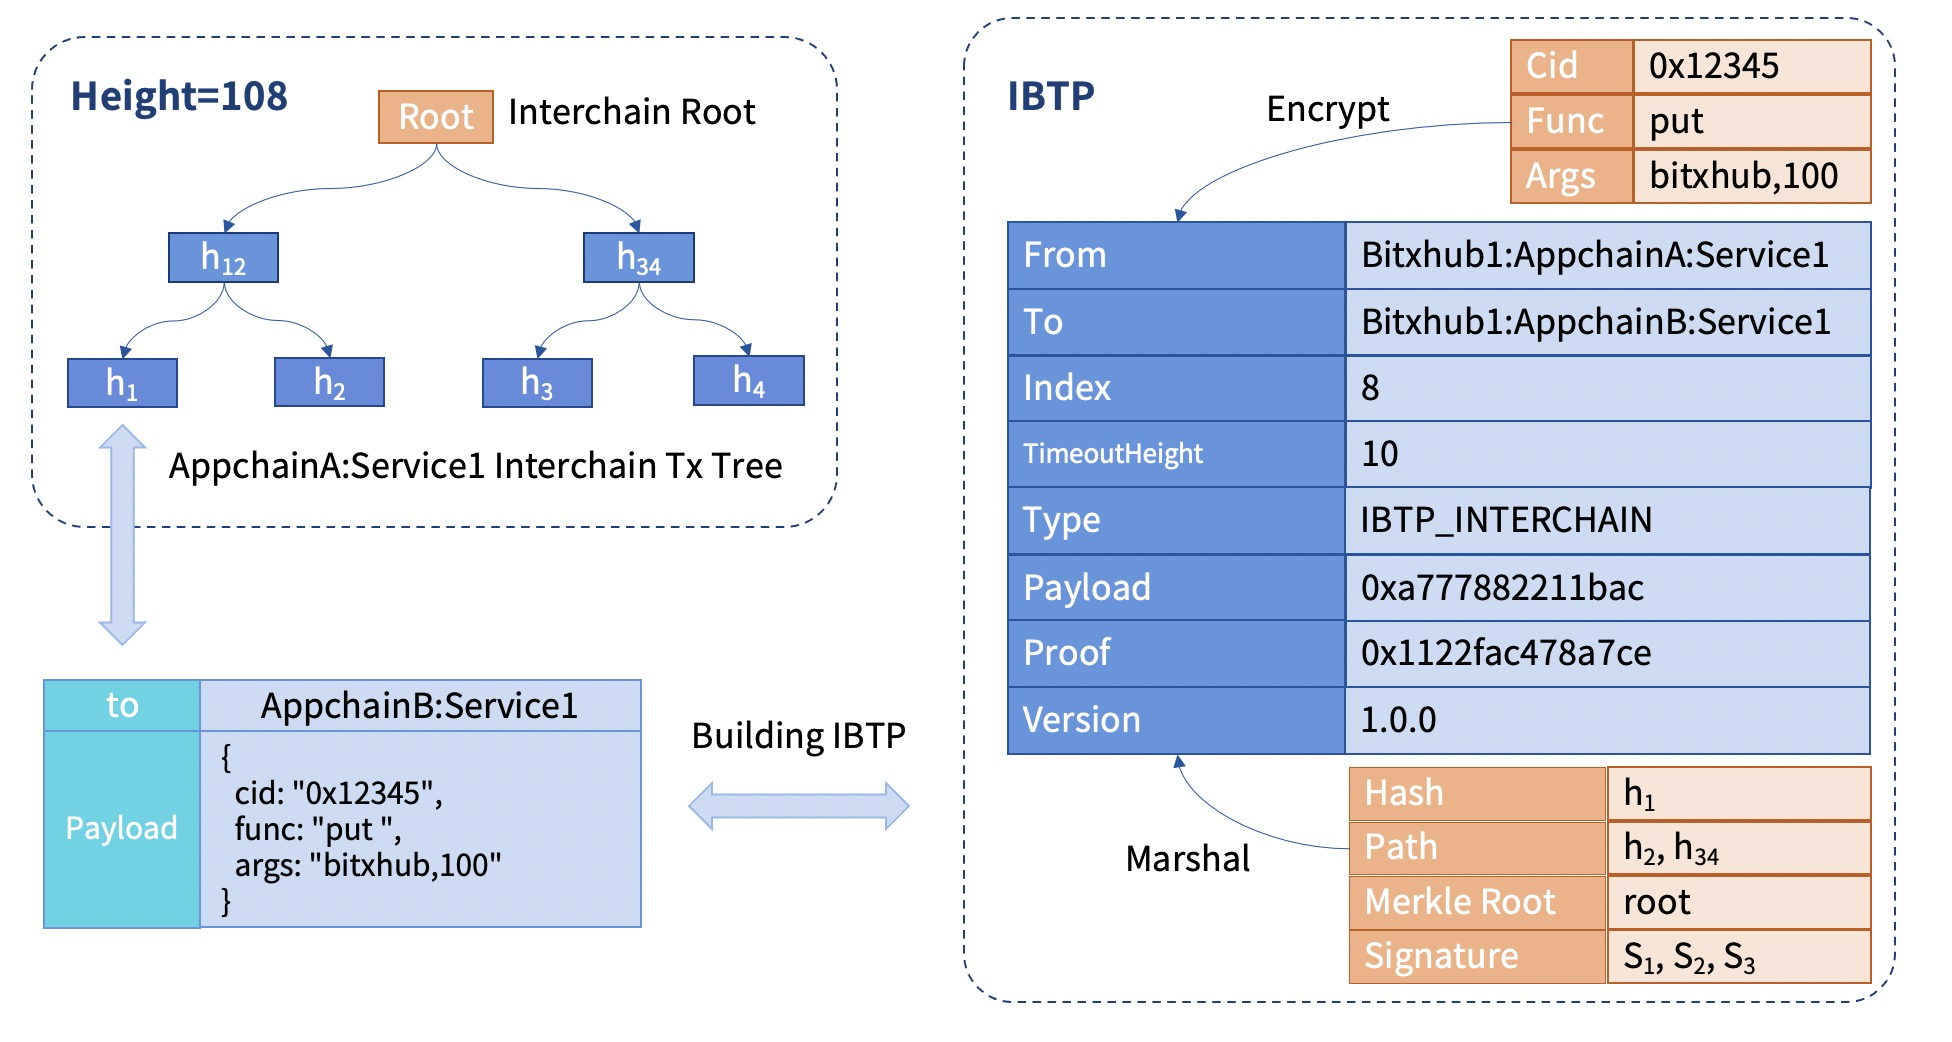
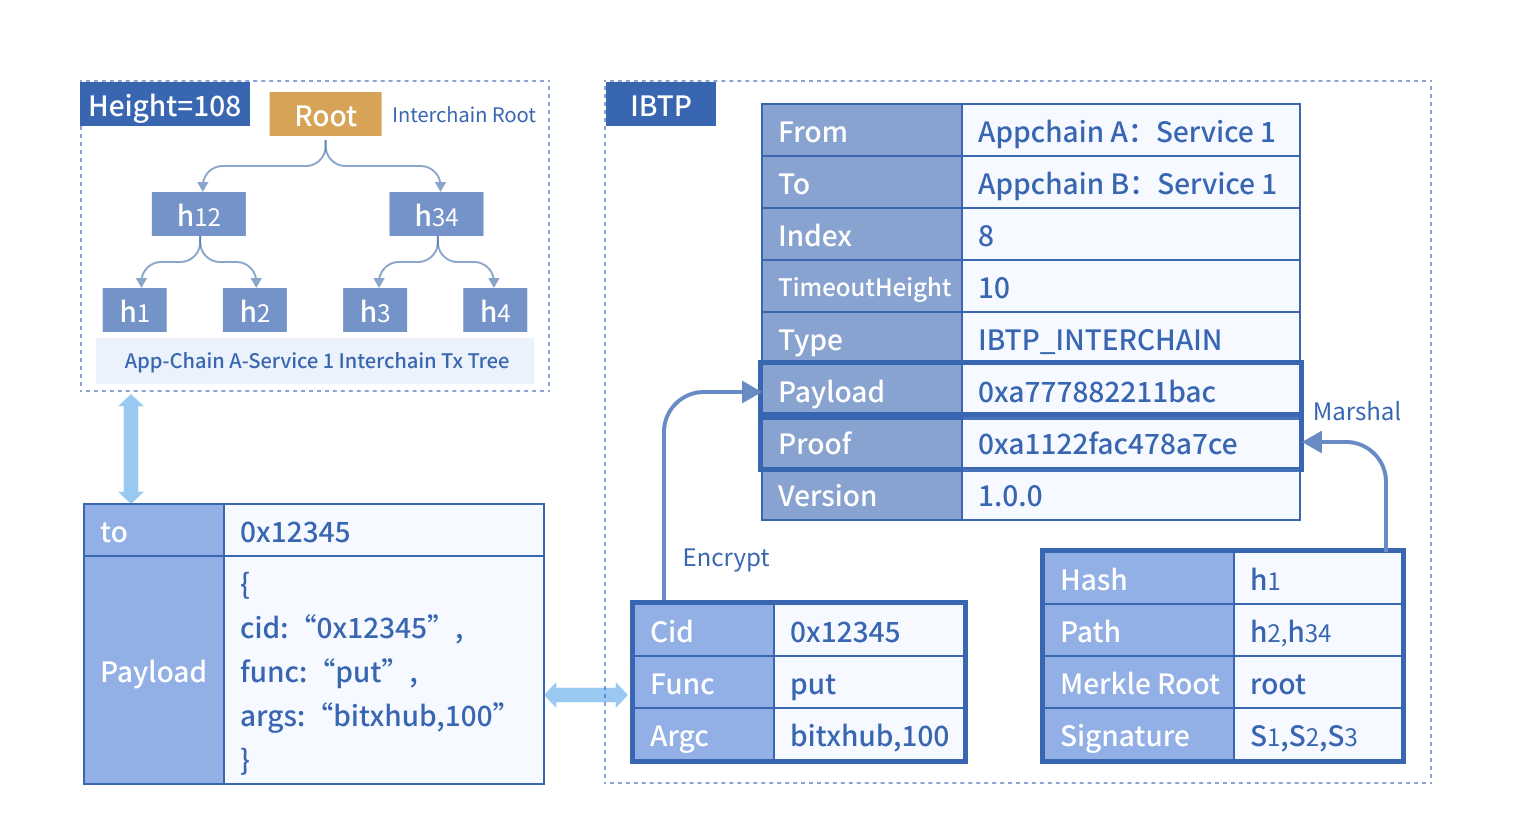
update 2.0 picture update proposal manager design

diff --git a/docs/bitxhub/quick_start/tx_flow.md b/docs/bitxhub/quick_start/tx_flow.md
@@ -1,4 +1,4 @@
-# 跨链交易流程介绍
+# 跨链交易基本流程
 
 一个典型的跨链交易流程如下图所示，图中各模块具体含义如下：
 
@@ -34,6 +34,8 @@
 
 #### 4. 中继链处理跨链交易
 
+
+
 BitXHub 收到跨链交易后，将进行以下处理：
 
 1. 对 bxhTx1 进行基本验证，如验证交易的Nonce与签名的合法性；
@@ -44,27 +46,26 @@ BitXHub 收到跨链交易后，将进行以下处理：
 
 4. 执行模块交由验证引擎验证区块的所有交易的有效性和存在性，并对交易根据发送的目的地址进行分类，处理完毕后交由路由模块；
 
-5. 路由模块根据地址将封装后的跨链交易bxhTxWrapper路由到对应的跨链网关，TxWrapper交易类型如下图所示。
+5. 路由模块根据地址将封装后的跨链交易bxhTxWrapper路由到对应的跨链网关，TxWrapper交易类型与路由逻辑如下所示。
 
-   | 参数         | 说明                                              |
-   | ------------ | ------------------------------------------------- |
-   | L2Roots      | 不同的目的应用链的交易构成的merkleRoot集合        |
-   | Transactions | 验证后交易集合，valid字段表明交易是否验证通过     |
-   | Height       | 交易所在的区块高度，与L2Roots一起用于跨链网关验证 |
+    ![!](../../assets/router.png)
+
+    | 参数         | 说明                                          |
+    | ------------ | --------------------------------------------- |
+    | Transactions | 验证后交易集合，valid字段表明交易是否验证通过 |
+    | Height       | 交易所在的区块高度                            |
+
+
 
 #### 5. 跨链网关监听中继链交易
 
-验证跨链交易所在区块在中继链的存在性：
+跨链网关 B 收到中继链发送的跨链交易，需要向中继链请求跨链交易所需的proof。proof由多签和交易状态组成。proof构造逻辑如下：
 
-- 跨链网关 B 监听到来自中继链的交易bxhTxWrapper，跨链网关可以根据bxhTxWrapper的L2Roots字段构建当前区块的txRoot1；
+1. 跨链网关向中继链请求该跨链交易的proof，中继链收到请求后，根据跨链交易ID从账本查询到该跨链交易；
+2. 中继链根据跨链交易ID从状态数据库中读取该跨链交易状态；
+3. 中继链各节点将交易状态与跨链交易相关字段进行打包签名，各节点签名的拼接称为多签，中继链将多签返回至跨链网关 B ；
 
-- 与此同时，跨链网关将拉取中继链的区块头，根据bxhTxWrapper的区块高度获取相应的区块头txRoot2；
-- 比较当前区块头的txRoot2与计算得到的txRoot1是否相等。如果相等，即验证了收到的bxhTxWrapper的L2Roots字段的真实性。
-
-验证跨链交易在区块的有效性：
-
-- 将bxhTxWrapper的交易集合构建交易哈希L2Root，判断L2Root是否存在于L2roots集合中。
-- 如果存在，即验证了收到的bxhTxWrapper的Transactions字段的真实性。证明了交易存在中继链的真实性。
+至此 proof构造完成，因为proof的构造是有中继链各节点管理员使用私钥对其IBTP各字段与交易状态进行签名，跨链网关作为不受信任的组件只进行封装与转发的操作，如果跨链网关作恶，对其内容进行更改，在应用链合约在使用中继链管理员的公钥进行proof校验时将失败，因此整个跨链交易流程最终失败，应用链 A 将进行相关回滚操作。
 
 #### 6. 解析中继链交易并转发给应用链执行
 

diff --git a/docs/bitxhub/architecture/tx_flow.md b/docs/bitxhub/architecture/tx_flow.md
@@ -46,25 +46,20 @@ BitXHub 收到跨链交易后，将进行以下处理：
 
 5. 路由模块根据地址将封装后的跨链交易bxhTxWrapper路由到对应的跨链网关，TxWrapper交易类型如下图所示。
 
-   | 参数         | 说明                                              |
-   | ------------ | ------------------------------------------------- |
-   | L2Roots      | 不同的目的应用链的交易构成的merkleRoot集合        |
-   | Transactions | 验证后交易集合，valid字段表明交易是否验证通过     |
-   | Height       | 交易所在的区块高度，与L2Roots一起用于跨链网关验证 |
+   | 参数         | 说明                                          |
+   | ------------ | --------------------------------------------- |
+   | Transactions | 验证后交易集合，valid字段表明交易是否验证通过 |
+   | Height       | 交易所在的区块高度                            |
 
 #### 5. 跨链网关监听中继链交易
 
-验证跨链交易所在区块在中继链的存在性：
+跨链网关 B 收到中继链发送的跨链交易，需要向中继链请求跨链交易所需的proof。proof由多签和交易状态组成。proof构造逻辑如下：
 
-- 跨链网关 B 监听到来自中继链的交易bxhTxWrapper，跨链网关可以根据bxhTxWrapper的L2Roots字段构建当前区块的txRoot1；
+1. 跨链网关向中继链请求该跨链交易的proof，中继链收到请求后，根据跨链交易ID从账本查询到该跨链交易；
+2. 中继链根据跨链交易ID从状态数据库中读取该跨链交易状态；
+3. 中继链各节点将交易状态与跨链交易相关字段进行打包签名，各节点签名的拼接称为多签，中继链将多签返回至跨链网关 B ；
 
-- 与此同时，跨链网关将拉取中继链的区块头，根据bxhTxWrapper的区块高度获取相应的区块头txRoot2；
-- 比较当前区块头的txRoot2与计算得到的txRoot1是否相等。如果相等，即验证了收到的bxhTxWrapper的L2Roots字段的真实性。
-
-验证跨链交易在区块的有效性：
-
-- 将bxhTxWrapper的交易集合构建交易哈希L2Root，判断L2Root是否存在于L2roots集合中。
-- 如果存在，即验证了收到的bxhTxWrapper的Transactions字段的真实性。证明了交易存在中继链的真实性。
+至此 proof构造完成，因为proof的构造是有中继链各节点管理员使用私钥对其IBTP各字段与交易状态进行签名，跨链网关作为不受信任的组件只进行封装与转发的操作，如果跨链网关作恶，对其内容进行更改，在应用链合约在使用中继链管理员的公钥进行proof校验时将失败，因此整个跨链交易流程最终失败，应用链 A 将进行相关回滚操作。
 
 #### 6. 解析中继链交易并转发给应用链执行
 

diff --git a/docs/bitxhub/design/direct_transaction.md b/docs/bitxhub/design/direct_transaction.md
@@ -1,8 +1,8 @@
 # 直连架构跨链事务方案
 
-针对跨链参与方有信任基础或者安全性要求不那么高的场景，可以采用链对链架构，在该种架构下，不同的链通过各自的跨链网关直接相连，可以大大降低跨链设施部署成本。具体可以参考<a href="../../design/pier_design/#directMode">直连架构设计</a>
+针对跨链参与方有信任基础或者安全性要求不那么高的场景，可以采用链对链架构，在该种架构下，不同的链通过各自的跨链网关直接相连，可以大大降低跨链设施部署成本。具体可以参考<a href="../../design/pier_design/#directMode">直连架构设计</a>。
 
-![!](../../assets/direct_transaction1.png)
+![!](../../assets/direct-arch.png)
 
 在该架构下，由于没有第三方中继链的接入，因此我们使用部署在各自应用链上的事务管理合约来实现跨链交易的事务管理。事务管理合约只能由跨链管理合约Broker合约调用，并且仅管理由该链发出的跨链交易的事务状态。
 

diff --git a/docs/bitxhub/design/ibtp.md b/docs/bitxhub/design/ibtp.md
@@ -2,6 +2,8 @@
 
 该协议内容指定了相关跨链事件的来源链、目的链、跨链交易方法以及验证策略、签名等诸多信息，支持应用链与中继链、应用链与应用链间的交互操作，其结构如下表所示。应用链的跨链消息通过跨链网关转换成 IBTP 结构提交至中继链，中继链通过 IBTP 内容进行跨链交易的合法性验证及可靠路由。基于 IBTP 协议跨链网关可将不同应用链抛出的事件数据格式转换为统一结构。
 
+![!](../../assets/ibtp-arch.png)
+
 跨链传输协议主要围绕IBTP数据结构展开，该数据结构在跨链交易之间的流转运行基于IBTP协议的几个关键特性：跨链服务、跨链消息证明以及信任树。
 
 | 参数          | 说明                                           |
